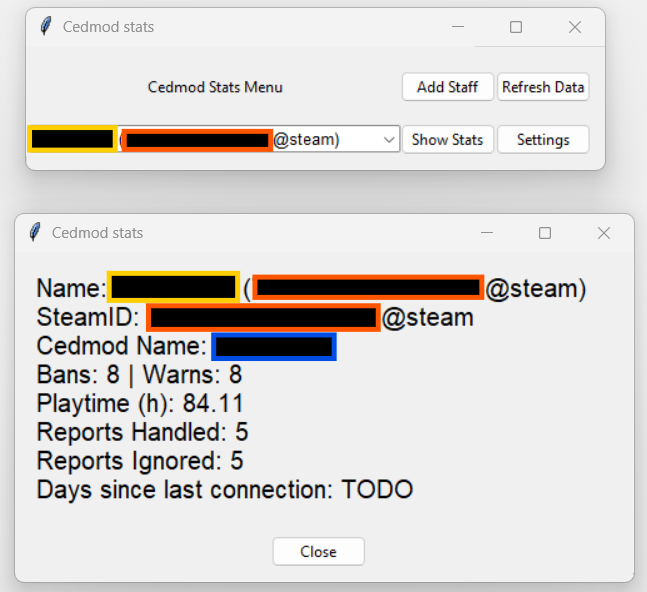
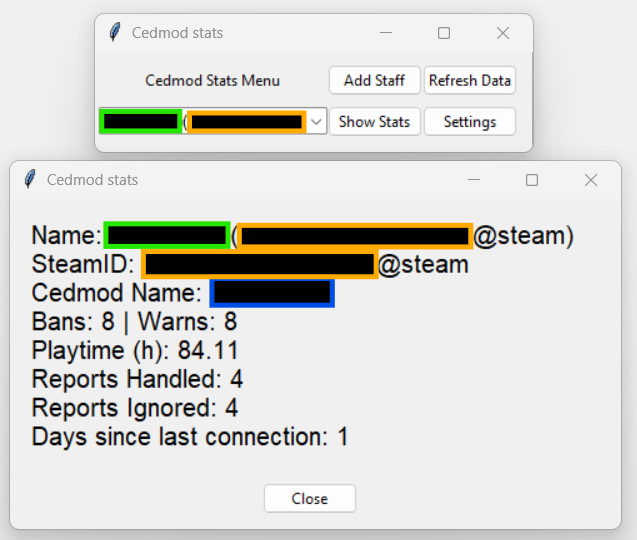
Added time since last connection stat

Changed region(s): [[0.0, 0.0, 0.9843, 1.0], [0.865, 0.0296, 0.8948, 0.0593]]

diff --git a/cedAnalysis.py b/cedAnalysis.py
@@ -1,5 +1,6 @@
 import re
 import cedmodAPI
+import datetime as dt
 
 
 def extract_steam_id(name):
@@ -89,17 +90,14 @@ def remove_duplicate_names(listOfNames):
     return listOfNames
 
 
-def get_list_of_staff(type=None, responceJson=None):
-    if responceJson is not None:
-        issuers = get_list_of_ban_issuers(responseJson=responceJson)
-        issuers = issuers + get_list_of_staff_steam_names()
-    else:
-        issuers = get_list_of_ban_issuers(fullSteaamName=True)
-        issuers = issuers + get_list_of_staff_steam_names()
+def get_list_of_staff(type=None):
+
+    issuers = get_list_of_ban_issuers(fullSteaamName=True)
+
 
     if type is None:
-        discord = remove_duplicate_names(remove_steam_names(issuers))
-        steam = remove_duplicate_names(remove_discord_names(issuers))
+        discord = list(dict.fromkeys((remove_steam_names(issuers))))
+        steam = get_list_of_staff_steam_names()
         return (discord, steam)
     else:
         type = type.lower()
@@ -123,6 +121,19 @@ def get_dict_of_staff_playtime(max=50):
     return dict(dictList)
 
 
+def get_dict_of_staff_connection_delta(max=50):
+    response = cedmodAPI.get_activity(max=max,staffOnly=True)
+    dictList = []
+    playerList = response["players"]
+    for i in range(0,len(playerList)):
+        lastSeenList = re.search("\\d{4}-\\d{2}-\\d*", string=playerList[i]["lastSeen"]).group().split("-")
+        lastSeenDateTime = dt.datetime(year=int(lastSeenList[0]), month=int(lastSeenList[1]),day=int(lastSeenList[2]))
+        delta = (dt.datetime.now() - lastSeenDateTime).days
+        dictList.append((playerList[i]["userId"],delta))
+
+    return dict(dictList)
+
+
 def get_dict_of_staff_reports(max=100,page=0):
     reports = cedmodAPI.get_reports(max=max,page=page)
     listOfReports = reports["players"]
@@ -136,8 +147,6 @@ def get_dict_of_staff_reports(max=100,page=0):
             dict[report["handler"]][report["status"]] += 1
 
     return dict
-
-
 
 
 # ------------ Functions that add stats to staff go below ------------
@@ -156,6 +165,14 @@ def add_warns_to_staff(staffList):
     for i in range(0, len(staffList)):
         staffList[i].set_warns(warnList.count(staffList[i].cedmodName) + warnList.count(staffList[i].steamID))
     print("CedA: Finished adding warns to staff list")
+
+
+def add_deta_to_staff(staffList):
+    print("CedA: Starting adding delta to staff list")
+    playtimeDict = get_dict_of_staff_connection_delta()
+    for i in range(0, len(staffList)):
+        staffList[i].set_days_since_connection(playtimeDict[staffList[i].steamID])
+    print("CedA: Finished adding delta to staff list")
 
 
 def add_playtime_to_staff(staffList):

diff --git a/gui.py b/gui.py
@@ -71,7 +71,7 @@ def popup_new_staff(mainWindow, staffCombobox, listOfStaffCombined):
                                                                                     steamList=steamIDComboBox["values"],
                                                                                     cedmodList=cedmodNameComboBox[
                                                                                         "values"]))
-    abortButton = ttk.Button(content, text="Abort", command=root.destroy)
+    abortButton = ttk.Button(content, text="Cancel", command=root.destroy)
 
     # ---
 
@@ -152,13 +152,19 @@ def display_settings_window(mainWindow):
     closeButton.grid(column=0, row=2)
 
 
-def refresh_stats():
+def refresh_stats(refreshDataButton):
     print("GUI: Refreshing Stats")
-    threading.Thread(target=cedAnalysis.add_bans_to_staff, args=((staffList,))).start()
-    threading.Thread(target=cedAnalysis.add_warns_to_staff, args=((staffList,))).start()
-    threading.Thread(target=cedAnalysis.add_playtime_to_staff, args=((staffList,))).start()
-    threading.Thread(target=cedAnalysis.add_reports_to_staff, args=((staffList,))).start()
+    threadList = [threading.Thread(target=cedAnalysis.add_bans_to_staff, args=((staffList,))),
+    threading.Thread(target=cedAnalysis.add_warns_to_staff, args=((staffList,))),
+    threading.Thread(target=cedAnalysis.add_playtime_to_staff, args=((staffList,))),
+    threading.Thread(target=cedAnalysis.add_deta_to_staff, args=((staffList,))),
+    threading.Thread(target=cedAnalysis.add_reports_to_staff, args=((staffList,)))
+    ]
+    for thread in threadList:
+        thread.start()
 
+    for thread in threadList:
+        thread.join()
 
 def display_main_menu():
     root = Tk()
@@ -175,7 +181,7 @@ def display_main_menu():
 
     showStatsButton = ttk.Button(content, text="Show Stats", command=lambda: display_stats_window(root, staffInfoText))
 
-    refreshDataButton = ttk.Button(content, text="Refresh Data", command=refresh_stats)
+    refreshDataButton = ttk.Button(content, text="Refresh Data", command=lambda: refresh_stats(refreshDataButton))
     settingsButton = ttk.Button(content, text="Settings", command=lambda: display_settings_window(root))
 
     nameLabel = Label(content, text="Cedmod Stats Menu")

diff --git a/staff.py b/staff.py
@@ -9,6 +9,7 @@ class Staff:
     playtime = -1.1
     reportsHandled = -1
     reportsIgnored = -1
+    daysSinceConnection = -1
 
     def set_name(self, name):
         self.name = str(name)
@@ -36,8 +37,11 @@ class Staff:
     def set_reports_ignored(self, reports_ignored):
         self.reportsIgnored = int(reports_ignored)
 
+    def set_days_since_connection(self,days):
+        self.daysSinceConnection = int(days)
+
     def to_string(self):
-        return "Name: "+str(self.name)+"\nSteamID: "+str(self.steamID)+"\nCedmod Name: "+str(self.cedmodName)+"\nBans: "+str(self.bans)+" | Warns: "+str(self.warns)+"\nPlaytime (h): "+str(self.playtime)+"\nReports Handled: "+str(self.reportsHandled)+"\nReports Ignored: "+str(self.reportsIgnored)+"\nDays since last connection: TODO"
+        return "Name: "+str(self.name)+"\nSteamID: "+str(self.steamID)+"\nCedmod Name: "+str(self.cedmodName)+"\nBans: "+str(self.bans)+" | Warns: "+str(self.warns)+"\nPlaytime (h): "+str(self.playtime)+"\nReports Handled: "+str(self.reportsHandled)+"\nReports Ignored: "+str(self.reportsIgnored)+"\nDays since last connection: "+str(self.daysSinceConnection)
 
     def __str__(self):
         return self.name

diff --git a/README.md b/README.md
@@ -15,7 +15,7 @@ A project to display moderation staff statistics for SCP:SL servers using the Ce
 | Playtime                   | Working        |
 | Reports Handled            | Partly working |
 | Reports Ignored            | Partly working |
-| Time since last connection | In development |
+| Time since last connection | Working        |
 
 ---
 
